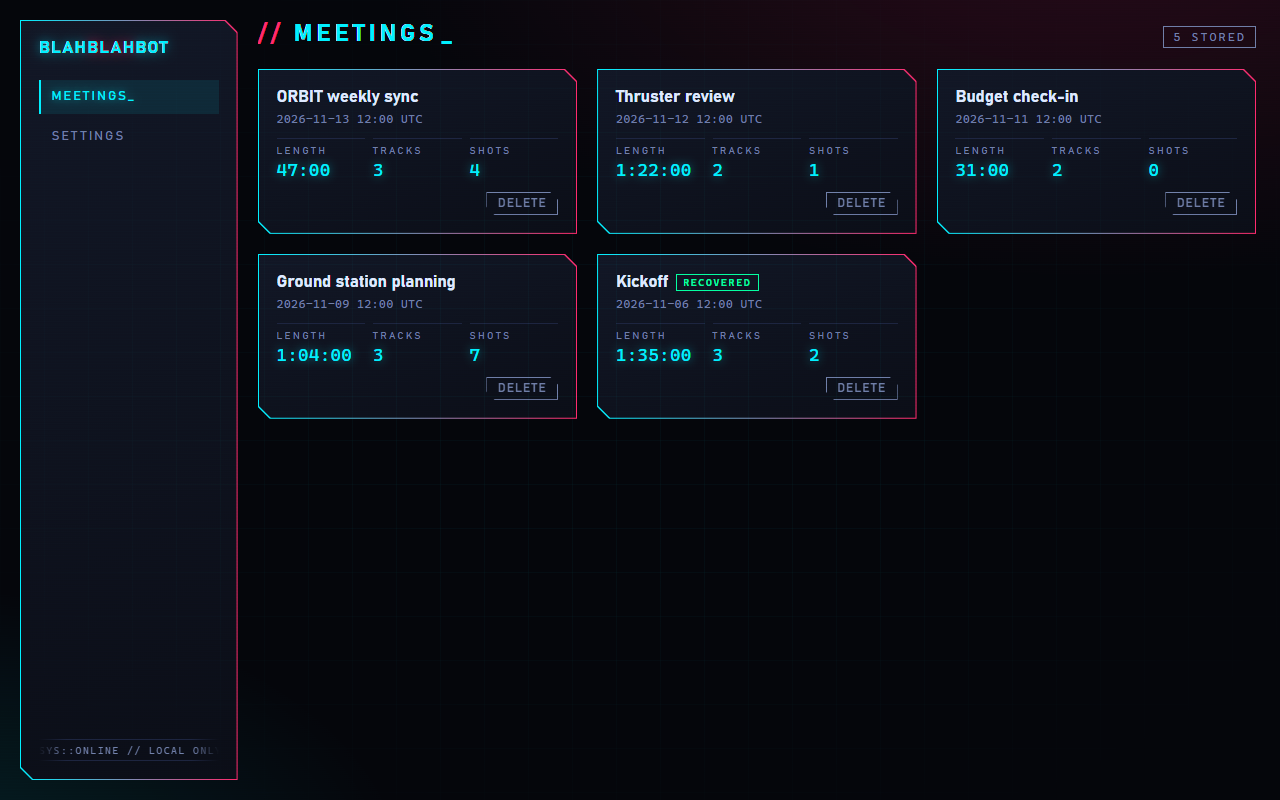
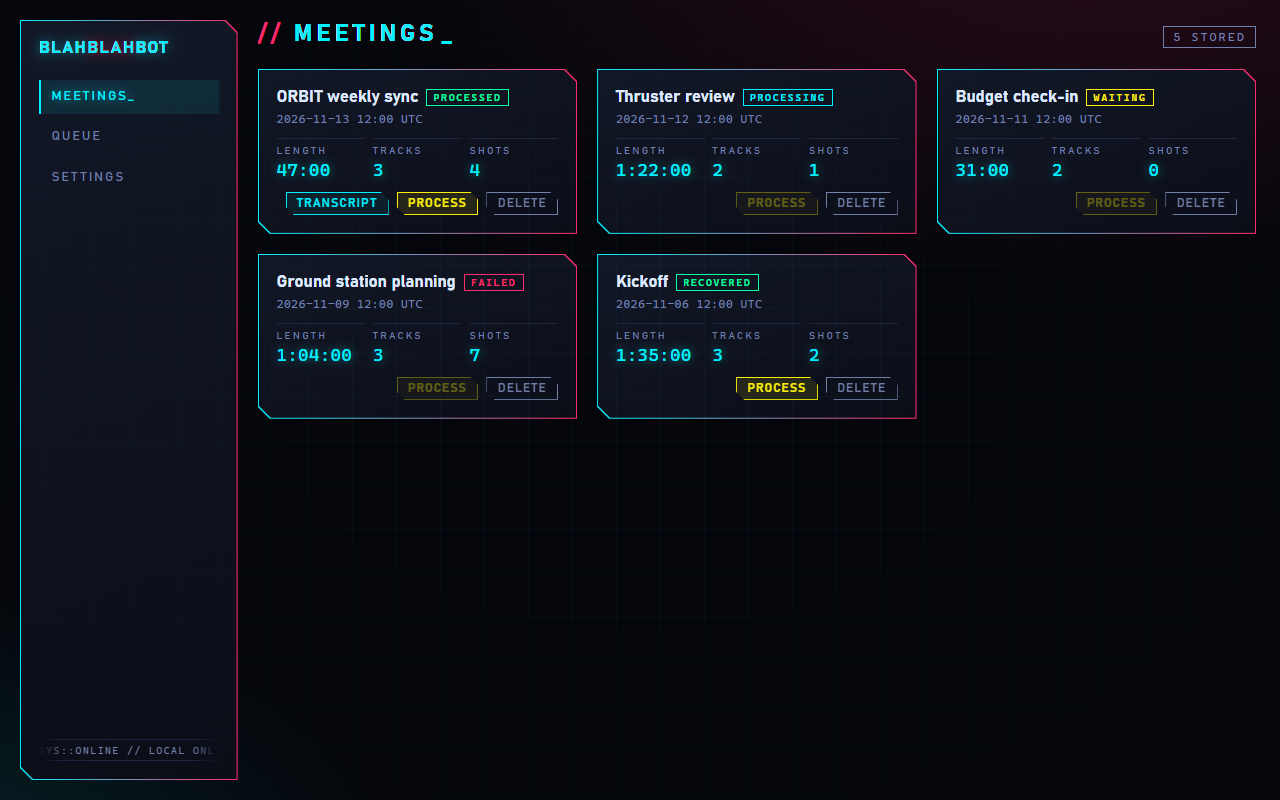
docs: add Stage 2 screenshots and the processing GIF generated from demo mode

diff --git a/ui/screenshots/screenshots.spec.ts b/ui/screenshots/screenshots.spec.ts
@@ -72,7 +72,16 @@ test.describe("static screenshots", () => {
     await expect(shot).toBeVisible();
     await shot.scrollIntoViewIfNeeded();
     await settle(page);
-    await page.screenshot({ path: path.join(OUT, "screenshot-description.png") });
+    // Only the screenshot with its description and the passages around it.
+    const rows = page.getByRole("list", { name: "Transcript" }).getByRole("listitem");
+    const row = rows.filter({ has: shot });
+    await row.locator("xpath=preceding-sibling::li[2]").scrollIntoViewIfNeeded();
+    const box = await row.boundingBox();
+    expect(box).not.toBeNull();
+    await page.screenshot({
+      path: path.join(OUT, "screenshot-description.png"),
+      clip: { x: 250, y: Math.max(0, box!.y - 130), width: 1020, height: 330 },
+    });
   });
 });
 
@@ -110,4 +119,36 @@ test("record flow GIF", async ({ page }) => {
     ...frames,
   ]);
   expect(fs.statSync(path.join(OUT, "record-flow.gif")).size).toBeLessThan(10_000_000);
+});
+
+test("processing GIF", async ({ page }) => {
+  const frames: string[] = [];
+  const dir = fs.mkdtempSync(path.join(os.tmpdir(), "bbb-gif-"));
+  const shot = async (wait = 350) => {
+    await page.waitForTimeout(wait);
+    const file = path.join(dir, `f${String(frames.length).padStart(2, "0")}.png`);
+    await page.screenshot({ path: file });
+    frames.push(file);
+  };
+  await page.setViewportSize({ width: 960, height: 640 });
+  await page.goto("/?view=main&backend=mock&jobms=1400");
+  await shot();
+  const card = page.getByRole("article").filter({ hasText: "Kickoff" });
+  await card.getByRole("button", { name: "Process" }).click();
+  await shot();
+  await page.getByRole("button", { name: "Queue", exact: true }).click();
+  const job = page.getByRole("article", { name: "Kickoff" });
+  await expect(job).toBeVisible();
+  // One frame per stage while the simulated pipeline advances.
+  for (let i = 0; i < 6; i++) await shot(1_300);
+  await expect(job.getByText("Processed", { exact: true })).toBeVisible({ timeout: 20_000 });
+  await shot();
+  fs.mkdirSync(OUT, { recursive: true });
+  execFileSync("python", [
+    path.join(here, "make-gif.py"),
+    path.join(OUT, "processing.gif"),
+    "900",
+    ...frames,
+  ]);
+  expect(fs.statSync(path.join(OUT, "processing.gif")).size).toBeLessThan(10_000_000);
 });
